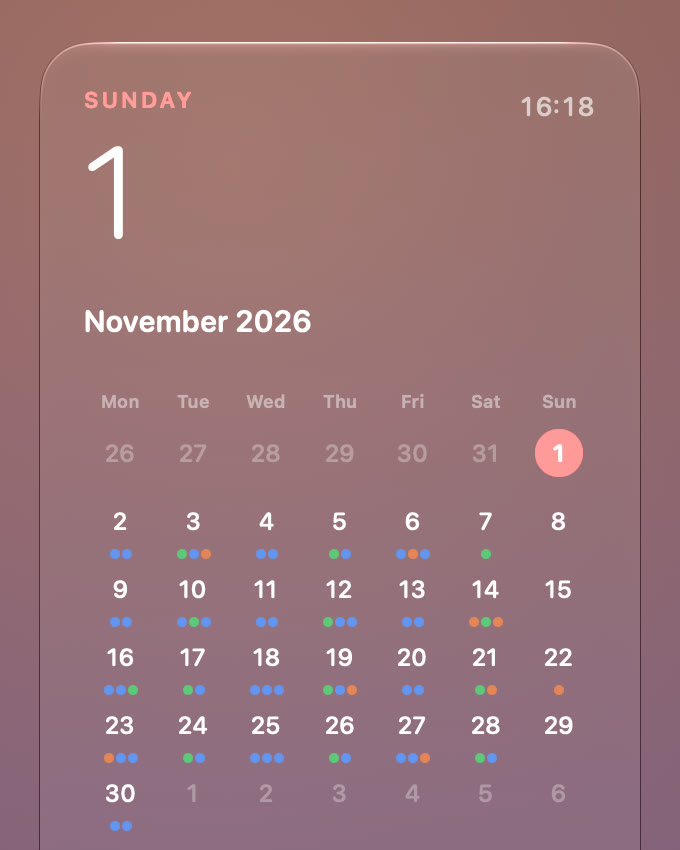
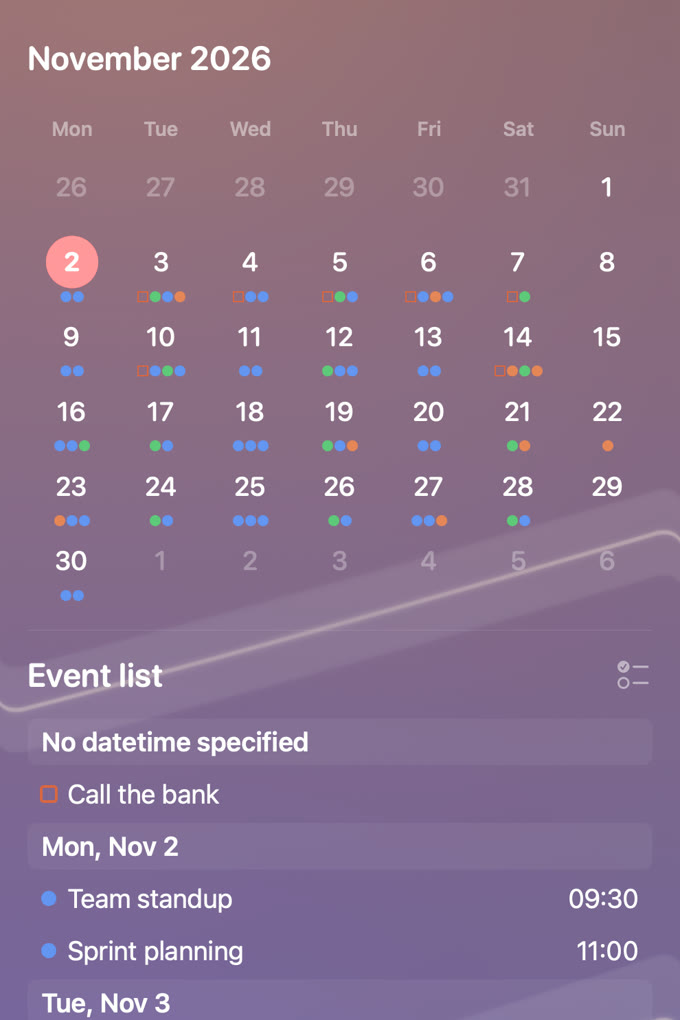
Retake sidebar shot with mini calendar and event list
The old crop cut off the event list the copy describes. New 2:3 crop
shows the mini calendar, event list and reminders; alt text updated in
all locales.

capture-app-media skill: democal puts reminder lists in the default
(iCloud) source, democal output no longer accumulates across runs, and
gotchas cover permission re-prompts, stale month/weekly crops and the
restore check.

diff --git a/src/i18n/ja.ts b/src/i18n/ja.ts
@@ -74,7 +74,7 @@ const ja: Dict = {
     sidebar: {
       title: '予定とリマインダーを並べて',
       body: 'ミニカレンダーの横に予定リスト。リマインダーのToDoもここに表示されます。',
-      alt: '今日の日付と、予定のドット付きミニカレンダーを表示したWallCalのサイドバー',
+      alt: 'ミニカレンダーの下に今後の予定とリマインダーの一覧を表示したWallCalのサイドバー',
     },
     weekly: {
       title: '週のタイムラインでも',

diff --git a/src/i18n/de.ts b/src/i18n/de.ts
@@ -74,7 +74,7 @@ const de: Dict = {
     sidebar: {
       title: 'Termine & Erinnerungen nebeneinander',
       body: 'Ein Mini-Kalender mit einer Terminliste daneben. Deine To-dos aus Erinnerungen erscheinen dort auch.',
-      alt: 'WallCal-Seitenleiste mit dem heutigen Datum und einem Mini-Kalender mit Terminpunkten',
+      alt: 'WallCal-Seitenleiste mit einem Mini-Kalender über einer Liste anstehender Termine und Erinnerungen',
     },
     weekly: {
       title: 'Oder als Zeitleiste deiner Woche',

diff --git a/.claude/skills/capture-app-media/scripts/democal.swift b/.claude/skills/capture-app-media/scripts/democal.swift
@@ -19,6 +19,8 @@ func requestAccess() {
 }
 
 func pickSource(for type: EKEntityType) -> EKSource {
+    // "On My Mac" rejects reminder lists; use the default reminders source (usually iCloud).
+    if type == .reminder, let def = store.defaultCalendarForNewReminders() { return def.source }
     let sources = store.sources
     if let local = sources.first(where: { $0.sourceType == .local }) { return local }
     // iCloud hides the local source; fall back to the default calendar's source.

diff --git a/src/i18n/en.ts b/src/i18n/en.ts
@@ -74,7 +74,7 @@ const en = {
     sidebar: {
       title: 'Events & reminders, side by side',
       body: 'A mini calendar with an event list next to it. Your to-dos from Reminders show up there too.',
-      alt: 'WallCal sidebar showing today’s date and a mini calendar with event dots',
+      alt: 'WallCal sidebar with a mini calendar above a list of upcoming events and reminders',
     },
     weekly: {
       title: 'Or a timeline of your week',

diff --git a/src/i18n/zh.ts b/src/i18n/zh.ts
@@ -74,7 +74,7 @@ const zh: Dict = {
     sidebar: {
       title: '事件与提醒，并排呈现',
       body: '迷你日历旁附带事件列表，提醒事项中的待办也会显示在这里。',
-      alt: 'WallCal 侧边栏，显示今天的日期和带事件标记的迷你日历',
+      alt: 'WallCal 侧边栏：迷你日历下方是即将到来的事件和提醒事项列表',
     },
     weekly: {
       title: '或者，一周时间轴',

diff --git a/.claude/skills/capture-app-media/SKILL.md b/.claude/skills/capture-app-media/SKILL.md
@@ -39,17 +39,17 @@ Then look at every output before committing: read the JPGs, and pull a few frame
 
 ## Gotchas (all hit in practice)
 
-- **Ask first.** This drives the user's real desktop and calendar database. Get their go-ahead. The first `DemoCal.app` run triggers the macOS Calendars/Reminders permission prompts, which the user must approve. Calendar access from a bare CLI binary is refused, which is why the bundle and `open` exist.
+- **Ask first.** This drives the user's real desktop and calendar database. Get their go-ahead. The first `DemoCal.app` run triggers the macOS Calendars/Reminders permission prompts, and so does every `build-tools.sh` run, because re-signing the bundle resets its access. A `democal` call that seems to hang is waiting on those prompts: approve them yourself with computer use instead of handing them back to the user. Calendar access from a bare CLI binary is refused, which is why the bundle and `open` exist.
 - **Personal data.** Never capture before the real calendars are hidden. Delete any capture that shows real events, names or the user's wallpaper (it may be copyrighted art).
-- **Reminders.** The "On My Mac" source rejects reminder lists ("That account does not support reminders"). `democal reminders` would need an iCloud list, which syncs to the user's devices. Skip it unless the user agrees.
+- **Reminders.** The "On My Mac" source rejects reminder lists ("That account does not support reminders"). `democal reminders` therefore creates its "Errands" list in the default reminders account (usually iCloud), which syncs to the user's devices until `restore.sh` deletes it. Ask before running it. Without it, the sidebar's event list shows no reminders.
 - **Overrides.** `-key value` arguments land in the argument domain as strings. Wrap typed values in plist XML (`'<true/>'`, `'<integer>7</integer>'`). Window frame overrides are ignored; place the window with `-designatedWindowScreen "<string>{json}</string>"` (see `WIN` in `env.sh`).
 - **Settings keys.** `calendarViewMode` monthly|weekly, `backgroundAppearance` nativeGlass|transparent|blurred, `isWeekViewNext7Days`, `agendaViewStartTime`/`EndTime`, `numberOfDaysInWeekView`, `newWeekStartsOn` (1 = Sun, 2 = Mon), `IsTimeFormat24Hour`, `isHidingTodolistView`, `isHidingCalendarView`, `CalendarDisplayState`/`ReminderDisplayState` (dict of id → bool). Check the app's Defaults keys if a shot looks unchanged.
 - **bgwin.**
   - Start it with `nohup … & disown`. A child process left on the shell hangs the Bash tool.
   - The first capture after a restart can come out black. `capture.sh` takes a throwaway `_warm.png` first.
   - `sck` matches windows by owning app name ("WallCal", "bgwin"), not window title.
-- **Crops.** The crop values in `export.sh`, `intro_video.py` and `addon_clips.py` assume the `WIN` frame on a 2560×1440@2× main display. On another display, or if the app layout changes, re-derive them from a downscaled preview of the raw PNGs.
+- **Crops.** The crop values in `export.sh`, `intro_video.py` and `addon_clips.py` assume the `WIN` frame on a 2560×1440@2× main display. On another display, or if the app layout changes, re-derive them from a downscaled preview of the raw PNGs. As of Nov 2026 the sidebar sits inside the main capture, left of the month grid, and the month/weekly crops are stale (only `sidebar.jpg` was re-derived). `sidebar.jpg` is 2:3 to match its bento card: it runs from the month name through the mini calendar into the event list, leaving out the big date header, because the whole sidebar is about 1:2.2.
 - **Text size.** The app scales text with window size (relative to 1100×700, clamped 1–2.5×, times `calendarTextSize`). Small windows give tiny text on the site, so keep the large `WIN`.
 - **Encoders.** Local ffmpeg has `libx264` and `libvpx-vp9` but no `libwebp`, so the site uses MP4 + WebM `<video>` instead of GIF/WebP.
 - **Localized media.** Captures are English UI. For a localized set, add (untested) `-AppleLanguages '(de)'` (or ja, zh-Hans) to the launch args, write to a per-locale folder, and give the overlay captions in `video.sh` / `addon_clips.py` translated text.
-- **Restore.** Note the user's WallCal window frame before you start, and relaunch with that `-designatedWindowScreen` at the end. Confirm the calendar count matches the pre-setup `list.out`. Also tell the user that DemoCal still has Calendars/Reminders access in System Settings; they remove it themselves.
+- **Restore.** Note the user's WallCal window frame before you start, and relaunch with that `-designatedWindowScreen` at the end. Confirm the calendar and reminder lists match the pre-setup `list.out` (diff the sorted `-cal` lines of a fresh `democal list`). Also tell the user that DemoCal still has Calendars/Reminders access in System Settings; they remove it themselves.
